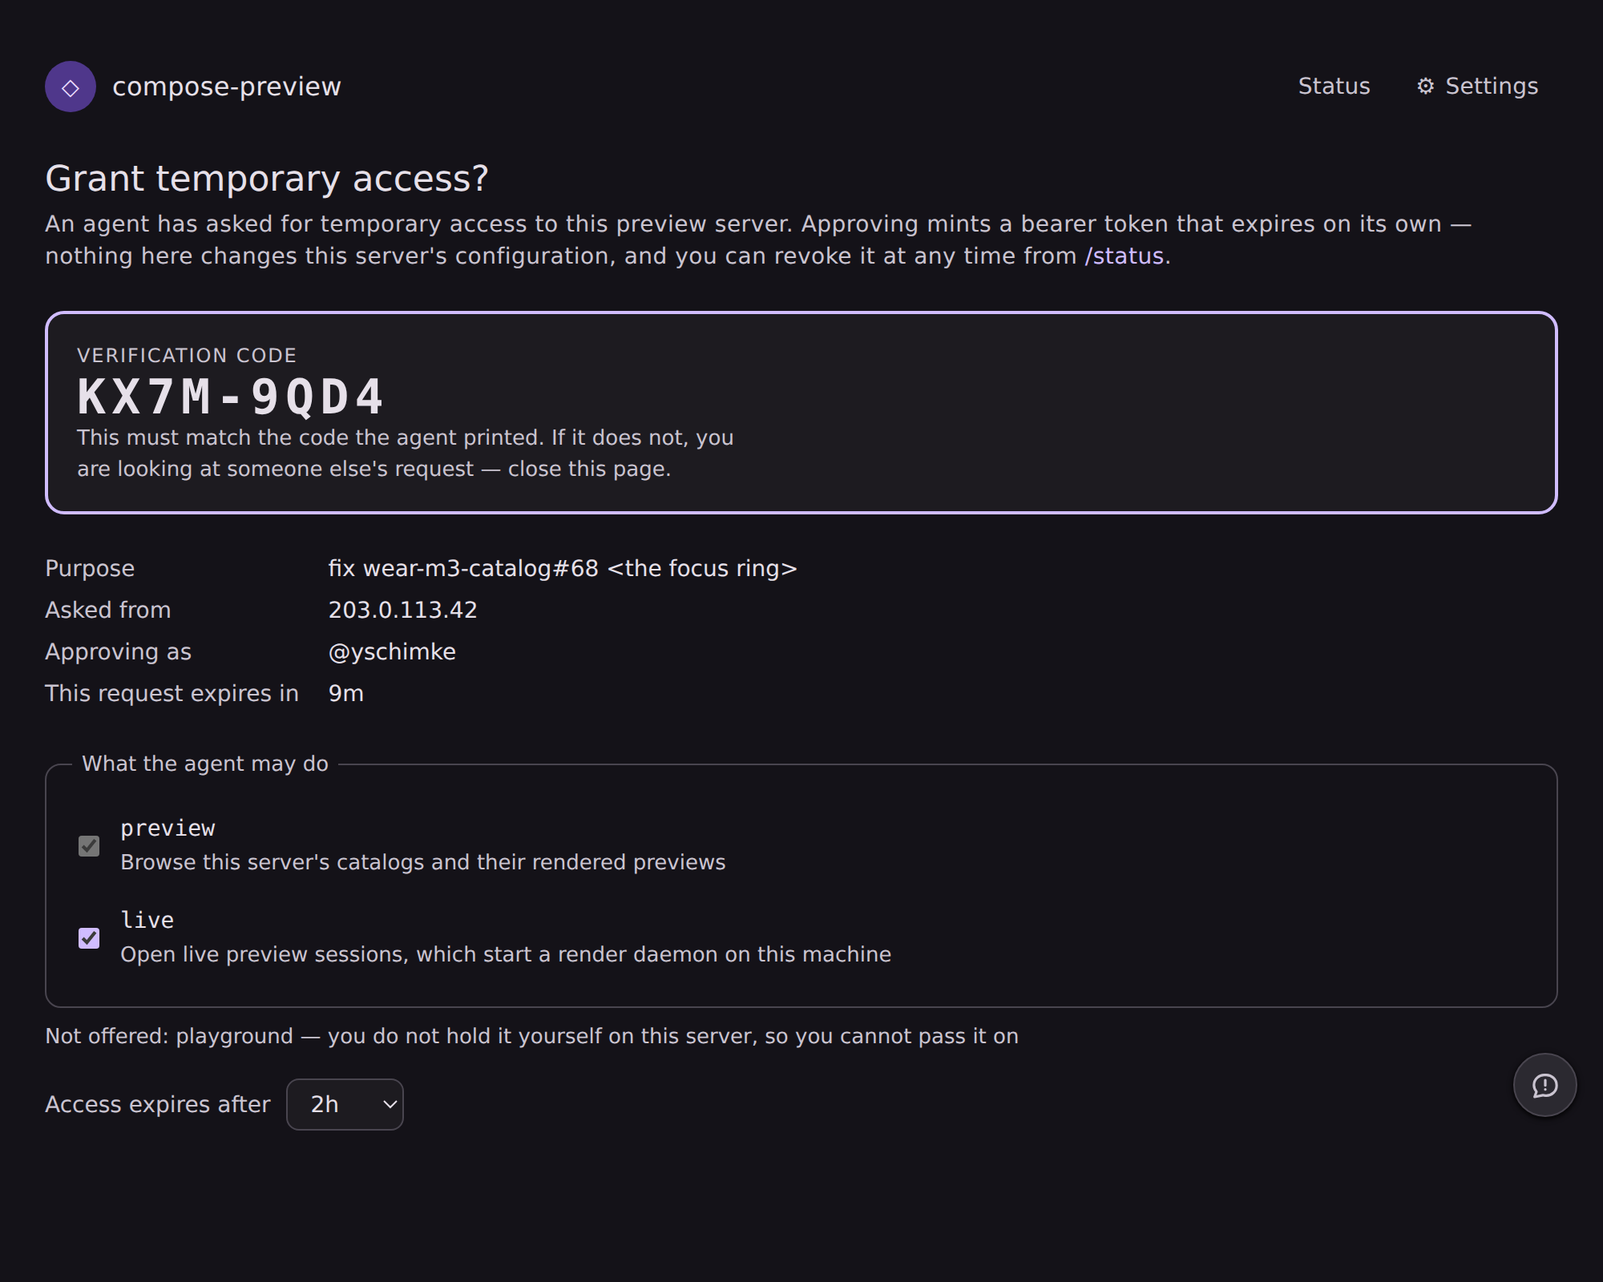
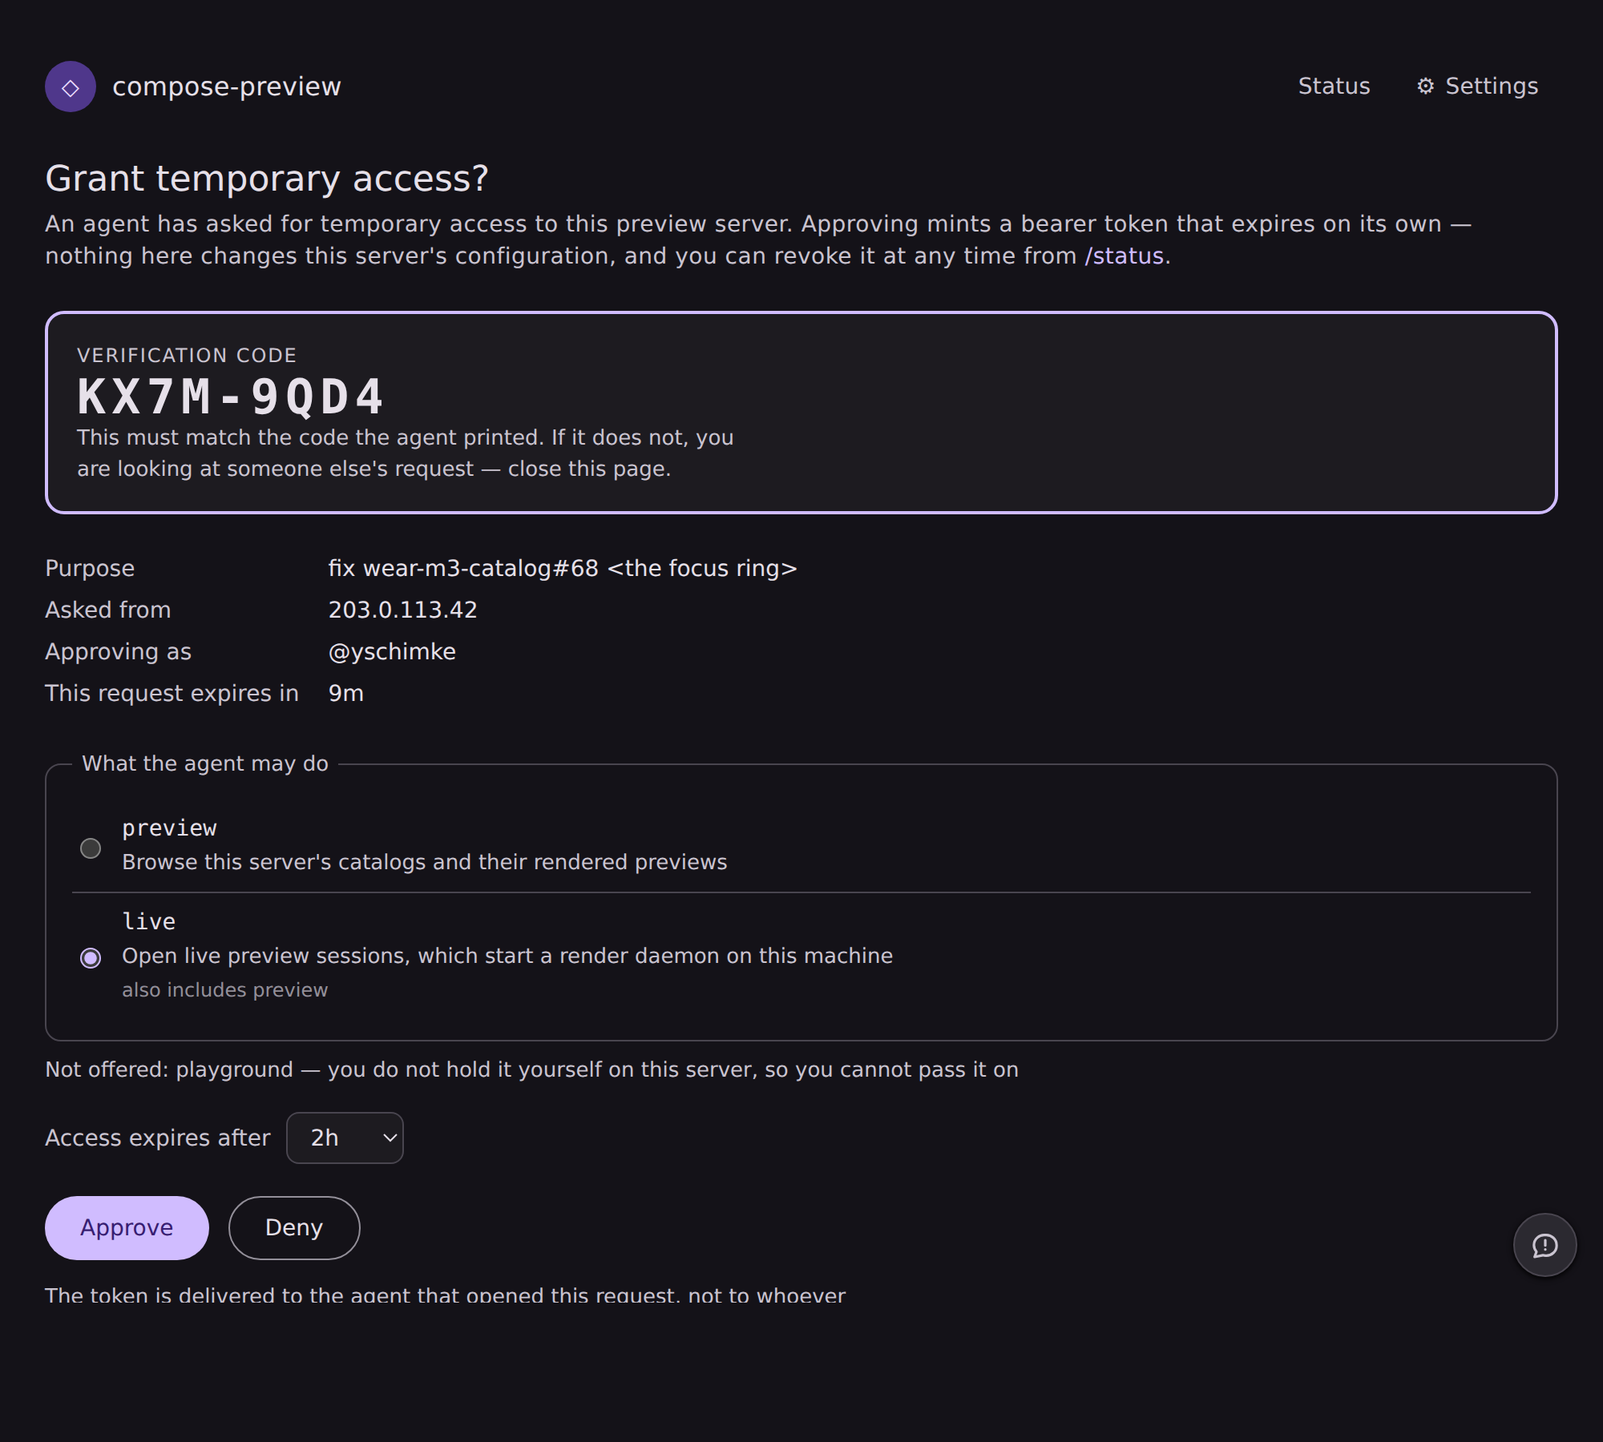
fix(serve): make the consent page's scope control mean what it says
Fourth review round, five findings. The one that matters most is a UI bug on
the page whose entire job is to state accurately what is being agreed to.

**Independent checkboxes lied about cumulative scopes.** With `playground`
offered, an approver could untick `live` and leave `playground` ticked. The page
then showed live access as withheld; the handler takes the highest ticked rung
and `playground` implies `live`, so the grant included exactly the capability
the human had just unticked. Scopes are now radios — one choice, the rung, with
what it carries spelled out beneath it ("also includes preview").

Rendering the page to check that caught a second bug in the same change: the
default was the *requested* scope, which matches no radio when the approver's
own rights capped the request — so the form opened with nothing selected and,
being `required`, could not be submitted at all. The default is the highest
rung this approver may actually give.

**An approval in the last seconds of the window was uncollectable.** The purge
swept requests on `expiresAtMillis` regardless of state, so approving near the
deadline left the agent polling an id that no longer existed while its grant sat
live and unreachable. The request TTL bounds how long a human has to *decide*;
once they have, the record is retained until the token is fetched or the grant
itself expires. A pending request still dies on the dot — nobody may approve a
request whose window has closed.
[…]

diff --git a/cli/src/main/kotlin/ee/schimke/composeai/cli/AuthCommand.kt b/cli/src/main/kotlin/ee/schimke/composeai/cli/AuthCommand.kt
@@ -137,6 +137,21 @@ internal class AuthCommand(
         )
       )
 
+    // Nothing was persisted, so nothing later can redeem an approval — and the human-readable path
+    // never prints the token, by design. Waiting would mean asking a person to approve access that
+    // is guaranteed to be lost. `--json` is exempt: it prints the device secret, so its caller can
+    // poll for itself and needs no store at all.
+    if (!remembered && !json) {
+      fail(
+        "opened the request, but could not save it locally (see the warning above) — so nothing " +
+          "could collect the token once it was approved. Fix the credential file's directory and " +
+          "run this again, or use --json, which prints the device secret for you to poll with. " +
+          "The unsaved request expires on its own in " +
+          ServeAgentGrants.formatDuration(opened.expiresInSeconds) +
+          "; nobody has been asked to approve anything."
+      )
+    }
+
     if (json) {
       // The device secret is deliberately included: `--json` exists for an agent that wants to
       // drive the poll itself, and without it the response is a link it can never redeem. It is
@@ -171,13 +186,11 @@ internal class AuthCommand(
       println()
       if ("--no-wait" in args) {
         println(
-          if (remembered)
-            "Not waiting. Run `compose-preview auth status --server ${client.origin}` after they " +
-              "approve and it will collect the token — or run this without --no-wait to block " +
-              "until they do."
-          else
-            "Not waiting — but the request could NOT be saved locally (see the warning above), so " +
-              "no later command can collect its token. Re-run without --no-wait."
+          // `remembered` is guaranteed true here — an unsaved request aborts above, before anyone
+          // is asked to approve anything.
+          "Not waiting. Run `compose-preview auth status --server ${client.origin}` after they " +
+            "approve and it will collect the token — or run this without --no-wait to block " +
+            "until they do."
         )
         return
       }
@@ -203,7 +216,7 @@ internal class AuthCommand(
           expiresAtMillis = System.currentTimeMillis() + (outcome.expiresInSeconds ?: 0) * 1000,
         )
       )
-    if (saved) store.forgetPending(client.origin)
+    if (saved) store.forgetPendingRequest(opened.requestId)
     if (json) {
       printJson(
         GrantedJson.serializer(),
@@ -421,12 +434,12 @@ internal class AuthCommand(
                   System.currentTimeMillis() + (polled.expiresInSeconds ?: 0) * 1000,
               )
             )
-          if (stored) store.forgetPending(pending.origin)
+          if (stored) store.forgetPendingRequest(pending.requestId)
         }
         // Terminal and not coming back — stop carrying it.
         "denied",
         "expired",
-        "unknown" -> store.forgetPending(pending.origin)
+        "unknown" -> store.forgetPendingRequest(pending.requestId)
         else -> Unit // still pending
       }
     }

diff --git a/cli/src/main/kotlin/ee/schimke/composeai/cli/AgentAccessStore.kt b/cli/src/main/kotlin/ee/schimke/composeai/cli/AgentAccessStore.kt
@@ -96,24 +96,42 @@ internal open class AgentAccessStore(
     return read().pending.filter { it.expiresAtMillis > now }
   }
 
-  /** The un-collected request for [origin], or null. */
+  /** The most recently opened un-collected request for [origin], or null. */
   fun pendingFor(origin: String): Pending? {
     val key = normalizeOrigin(origin) ?: return null
-    return allPending().firstOrNull { it.origin == key }
+    return allPending().lastOrNull { it.origin == key }
   }
 
-  /** Remember an opened request so a later invocation can collect its token. */
+  /**
+   * Remember an opened request so a later invocation can collect its token.
+   *
+   * Requests **accumulate** rather than replacing each other per origin. Replacing looked tidy and
+   * quietly threw away a credential: run `auth request --no-wait` twice against one server and the
+   * first link stays approvable, so a human could approve it and mint a live grant whose device
+   * secret this store had already discarded. [MAX_PENDING] bounds the pile; the oldest goes first,
+   * which is also the one closest to its own deadline.
+   */
   fun savePending(pending: Pending): Boolean {
     val key = normalizeOrigin(pending.origin) ?: return false
     return withLock {
       val now = clock()
+      val current = read()
       val kept =
-        read().let { w -> w.pending.filter { it.origin != key && it.expiresAtMillis > now } }
-      write(read().copy(pending = kept + pending.copy(origin = key)))
+        current.pending
+          .filter { it.expiresAtMillis > now && it.requestId != pending.requestId }
+          .takeLast(MAX_PENDING - 1)
+      write(current.copy(pending = kept + pending.copy(origin = key)))
     }
   }
 
-  /** Drop the remembered request for [origin] — collected, denied, or expired. */
+  /** Drop one remembered request by id — collected, denied, or expired. */
+  fun forgetPendingRequest(requestId: String): Boolean = withLock {
+    val current = read()
+    val kept = current.pending.filter { it.requestId != requestId }
+    if (kept.size == current.pending.size) false else write(current.copy(pending = kept))
+  }
+
+  /** Drop every remembered request for [origin] — used when revoking or forgetting a server. */
   fun forgetPending(origin: String): Boolean {
     val key = normalizeOrigin(origin) ?: return false
     return withLock {
@@ -245,6 +263,13 @@ internal open class AgentAccessStore(
 
   companion object {
     const val SCHEMA_V1 = "compose-preview-agent-access/v1"
+
+    /**
+     * Un-collected requests kept at once. Each is a device secret on disk, so the pile is bounded;
+     * high enough that opening a couple of `--no-wait` asks against different servers never loses
+     * one, low enough that a runaway script cannot fill the file.
+     */
+    const val MAX_PENDING = 8
 
     private val JSON = Json {
       ignoreUnknownKeys = true

diff --git a/cli/src/main/kotlin/ee/schimke/composeai/cli/serve/ServeWeb.kt b/cli/src/main/kotlin/ee/schimke/composeai/cli/serve/ServeWeb.kt
@@ -5171,21 +5171,33 @@ ${captureControlsHtml().prependIndent("          ")}
     withheldReason: String = "",
   ): String {
     val esc = WebEscaping::htmlEscape
+    // **Radios, not checkboxes**, because the scopes are cumulative and independent boxes lie about
+    // that. With `playground` offered, an approver could untick `live` while leaving `playground`
+    // ticked — the page then said live access was withheld, and the grant included it anyway,
+    // because `playground` implies `live` and the handler takes the highest ticked rung. On the one
+    // page in this server whose entire job is to state accurately what is being agreed to, a
+    // control that can misdescribe the outcome is the wrong control. One choice: the highest rung,
+    // with everything it carries spelled out beneath it.
+    // The **highest offered** rung is the default, not the requested one. Those differ exactly when
+    // the approver's own rights capped the request — and there `requestedScope` matches no radio at
+    // all, so the form opened with nothing selected and (being `required`) could not be submitted.
+    // Defaulting to the top of what this approver may actually give is also the right answer on the
+    // merits: it is the agent's ask, clamped to what the person in front of the page can grant.
+    val defaultScope = selectableScopes.lastOrNull()
     val scopeRows =
       selectableScopes.joinToString("\n") { scope ->
-        val checked = if (requestedScope.implies(scope)) " checked" else ""
-        // `preview` is the floor: every grant is at least a read grant, so offering to untick it
-        // would offer a grant that grants nothing. Shown, explained, and fixed.
-        val fixed = scope == ServeAgentGrantScope.PREVIEW
-        val disabled = if (fixed) " disabled" else ""
-        val hidden =
-          if (fixed) "<input type=\"hidden\" name=\"scope\" value=\"${esc(scope.wire)}\">" else ""
+        val checked = if (scope == defaultScope) " checked" else ""
+        val includes =
+          ServeAgentGrantScope.upTo(scope).filter { it != scope }.joinToString(", ") { it.wire }
+        val alsoIncludes =
+          if (includes.isEmpty()) ""
+          else "<span class=\"cp-grant-scope-implies\">also includes ${esc(includes)}</span>"
         """
         <label class="cp-grant-scope">
-          <input type="checkbox" name="scope" value="${esc(scope.wire)}"$checked$disabled>
+          <input type="radio" name="scope" value="${esc(scope.wire)}"$checked required>
           <span class="cp-grant-scope-name">${esc(scope.wire)}</span>
-          <span class="cp-grant-scope-what">${esc(scope.humanDescription)}</span>
-        </label>$hidden
+          <span class="cp-grant-scope-what">${esc(scope.humanDescription)}$alsoIncludes</span>
+        </label>
         """
           .trimIndent()
       }

diff --git a/cli/src/main/kotlin/ee/schimke/composeai/cli/serve/ServeAgentGrantStore.kt b/cli/src/main/kotlin/ee/schimke/composeai/cli/serve/ServeAgentGrantStore.kt
@@ -210,7 +210,13 @@ class ServeAgentGrantStore(
     val key = id?.takeIf { isWellFormedId(it) } ?: return null
     val now = clock()
     purge(now)
-    return requests[key]?.takeIf { it.expiresAtMillis > now }
+    // An approved-but-uncollected request stays reachable past its own deadline so its owner can
+    // still fetch the token; [purge] is what decides when that ends. A *pending* one still dies on
+    // the dot — nobody should be able to approve a request whose window has closed.
+    return requests[key]?.takeIf {
+      it.expiresAtMillis > now ||
+        (it.state == Request.State.APPROVED && !it.collected && !grantIsGone(it, now))
+    }
   }
 
   /**
@@ -363,6 +369,12 @@ class ServeAgentGrantStore(
       .sortedBy { it.expiresAtMillis }
   }
 
+  /** True when the grant a request minted is expired or revoked, so the record owes nobody. */
+  private fun grantIsGone(request: Request, nowMillis: Long): Boolean {
+    val grant = request.grantId?.let { grants[it] } ?: return true
+    return grant.expiresAtMillis <= nowMillis
+  }
+
   /** Drop everything — server shutdown, and the tests' reset. */
   fun clear() {
     requests.clear()
@@ -374,7 +386,14 @@ class ServeAgentGrantStore(
   fun purge(nowMillis: Long = clock()): Int {
     var dropped = 0
     requests.entries.removeIf { (_, r) ->
-      (r.expiresAtMillis <= nowMillis).also { if (it) dropped++ }
+      // An approved request outlives its own deadline until its token has actually been fetched.
+      // The request TTL bounds *how long a human has to decide*; once they have decided, deleting
+      // the record strands the grant it created — which is exactly what happened when someone
+      // approved in the last seconds of the window and the agent's next poll landed after it.
+      // The grant's own expiry is what reclaims these, via [grantIsGone].
+      val keepForCollection =
+        r.state == Request.State.APPROVED && !r.collected && !grantIsGone(r, nowMillis)
+      (!keepForCollection && r.expiresAtMillis <= nowMillis).also { if (it) dropped++ }
     }
     grants.entries.removeIf { (_, g) ->
       (g.expiresAtMillis <= nowMillis).also {

diff --git a/cli/src/test/kotlin/ee/schimke/composeai/cli/serve/ServeAgentGrantStoreTest.kt b/cli/src/test/kotlin/ee/schimke/composeai/cli/serve/ServeAgentGrantStoreTest.kt
@@ -298,6 +298,39 @@ class ServeAgentGrantStoreTest {
   }
 
   @Test
+  fun `an approval near the deadline is still collectable after it`() {
+    // The request TTL bounds how long a human has to DECIDE. Once they have decided, deleting the
+    // record strands the grant it created — which is what happened to anyone approving in the last
+    // seconds of the window, because the agent's next poll landed after it.
+    val store = store()
+    val request = store.ask(ttl = 3600)
+    store.approve(request.id, "@yuri", ServeAgentGrantScope.LIVE, 3600)
+    now += (store.requestTtlSeconds + 5) * 1000
+    val polled = store.poll(request.id, request.deviceSecret)
+    assertTrue(polled is ServeAgentGrantStore.Poll.Approved, "got $polled")
+  }
+
+  @Test
+  fun `a pending request still dies on its own deadline`() {
+    // The other half: nobody may approve a request whose window has closed.
+    val store = store()
+    val request = store.ask()
+    now += (store.requestTtlSeconds + 5) * 1000
+    assertNull(store.request(request.id))
+    assertNull(store.approve(request.id, "@yuri", ServeAgentGrantScope.LIVE, 600))
+  }
+
+  @Test
+  fun `a retained approval is reclaimed once its grant is gone`() {
+    val store = store()
+    val request = store.ask(ttl = 60)
+    store.approve(request.id, "@yuri", ServeAgentGrantScope.LIVE, 60)
+    now += (store.requestTtlSeconds + 5) * 1000
+    // The grant expired too, so the record owes nobody anything and goes.
+    assertNull(store.request(request.id))
+  }
+
+  @Test
   fun `a collected request is shed to make room`() {
     val store = store(maxPendingRequests = 2)
     val collected = store.ask()

diff --git a/cli/src/test/kotlin/ee/schimke/composeai/cli/AgentAccessStoreTest.kt b/cli/src/test/kotlin/ee/schimke/composeai/cli/AgentAccessStoreTest.kt
@@ -193,6 +193,43 @@ class AgentAccessStoreTest {
   }
 
   @Test
+  fun `two requests for one server both survive`() {
+    // Replacing per origin looked tidy and quietly discarded a credential: the first link stays
+    // approvable on the server, so a human could approve it and mint a grant whose device secret
+    // this store had already thrown away.
+    fun pending(id: String) =
+      AgentAccessStore.Pending(
+        origin = "https://preview.coo.ee",
+        requestId = id,
+        deviceSecret = "secret-$id",
+        expiresAtMillis = now + 600_000,
+      )
+    store().savePending(pending("first"))
+    store().savePending(pending("second"))
+    assertEquals(2, store().allPending().size)
+    assertEquals(setOf("first", "second"), store().allPending().map { it.requestId }.toSet())
+    // …and one can be dropped without taking the other with it.
+    assertTrue(store().forgetPendingRequest("first"))
+    assertEquals(listOf("second"), store().allPending().map { it.requestId })
+  }
+
+  @Test
+  fun `the remembered-request pile is bounded`() {
+    for (i in 1..20) {
+      store()
+        .savePending(
+          AgentAccessStore.Pending(
+            origin = "https://h$i.example",
+            requestId = "r$i",
+            deviceSecret = "s$i",
+            expiresAtMillis = now + 600_000,
+          )
+        )
+    }
+    assertTrue(store().allPending().size <= AgentAccessStore.MAX_PENDING)
+  }
+
+  @Test
   fun `a remembered request expires with its own deadline`() {
     store()
       .savePending(

diff --git a/cli/src/main/kotlin/ee/schimke/composeai/cli/ServeCommand.kt b/cli/src/main/kotlin/ee/schimke/composeai/cli/ServeCommand.kt
@@ -713,9 +713,20 @@ class ServeCommand(args: List<String>, private val browseProject: Boolean = fals
    * more, it is a credential nobody remembers issuing.
    */
   private val agentGrantMaxTtlSeconds: Long =
-    (ServeAgentGrants.parseDurationSeconds(args.flagValue("--agent-grant-max-ttl"))
-        ?: ServeAgentGrantStore.DEFAULT_MAX_GRANT_TTL_SECONDS)
-      .coerceIn(60L, ServeAgentGrantStore.HARD_MAX_GRANT_TTL_SECONDS)
+    args
+      .flagValue("--agent-grant-max-ttl")
+      ?.let {
+        // A typo must not silently become the default. `--agent-grant-max-ttl 30m` mistyped is an
+        // operator asking for half an hour and getting eight — sixteen times the ceiling they
+        // meant, on the one setting that bounds how long a minted credential lives. The client's
+        // `--ttl` already fails loudly; so does this.
+        ServeAgentGrants.parseDurationSeconds(it)
+          ?: throw IllegalArgumentException(
+            "--agent-grant-max-ttl '$it' is not a duration — try 90m, 2h, or a number of seconds"
+          )
+      }
+      ?.coerceIn(60L, ServeAgentGrantStore.HARD_MAX_GRANT_TTL_SECONDS)
+      ?: ServeAgentGrantStore.DEFAULT_MAX_GRANT_TTL_SECONDS
 
   /** How many grants may be live at once (`--agent-grant-max-active`). */
   private val agentGrantMaxActive: Int =

diff --git a/vscode-extension/preview-harness/fixtures/pages/serve-agent-access.html b/vscode-extension/preview-harness/fixtures/pages/serve-agent-access.html
@@ -77,14 +77,14 @@
           <fieldset class="cp-grant-fieldset">
             <legend>What the agent may do</legend>
             <label class="cp-grant-scope">
-  <input type="checkbox" name="scope" value="preview" checked disabled>
+  <input type="radio" name="scope" value="preview" required>
   <span class="cp-grant-scope-name">preview</span>
   <span class="cp-grant-scope-what">Browse this server&#39;s catalogs and their rendered previews</span>
-</label><input type="hidden" name="scope" value="preview">
+</label>
 <label class="cp-grant-scope">
-  <input type="checkbox" name="scope" value="live" checked>
+  <input type="radio" name="scope" value="live" checked required>
   <span class="cp-grant-scope-name">live</span>
-  <span class="cp-grant-scope-what">Open live preview sessions, which start a render daemon on this machine</span>
+  <span class="cp-grant-scope-what">Open live preview sessions, which start a render daemon on this machine<span class="cp-grant-scope-implies">also includes preview</span></span>
 </label>
           </fieldset>
           <p class="cp-grant-withheld">Not offered: playground — you do not hold it yourself on this server, so you cannot pass it on</p>

diff --git a/cli/src/main/kotlin/ee/schimke/composeai/cli/serve/ServeHttpServer.kt b/cli/src/main/kotlin/ee/schimke/composeai/cli/serve/ServeHttpServer.kt
@@ -8390,6 +8390,9 @@ class ServeHttpServer(
     // and the store clamps to the request and this box's ceiling regardless, but refusing to *ask*
     // for something outside the approver's own ceiling keeps the audit line honest about what was
     // actually chosen.
+    // The page posts ONE value (a radio — see [ServeWeb.agentGrantApprovalPage] for why it is not a
+    // set of checkboxes), but `maxOrNull` is kept rather than `single()`: the form is client state,
+    // and a caller that posts several is asking for the highest, which the ceilings then clamp.
     val ticked =
       form["scope"].orEmpty().mapNotNull { ServeAgentGrantScope.parse(it) }.maxOrNull()
         ?: ServeAgentGrantScope.PREVIEW

diff --git a/cli/src/main/resources/ee/schimke/composeai/cli/serve/assets/serve.css b/cli/src/main/resources/ee/schimke/composeai/cli/serve/assets/serve.css
@@ -3826,6 +3826,10 @@ cp-page-zoom button:focus-visible {
   font-size: 14px; color: var(--cp-fg); }
 .cp-grant-scope-what { grid-column: 2; color: var(--cp-fg-muted); font-size: 13px;
   line-height: 1.5; }
+/* What the chosen rung carries with it — the cumulative half, said out loud so the single
+   choice is not mistaken for a single capability. */
+.cp-grant-scope-implies { display: block; margin-top: 2px; color: var(--cp-fg-faint);
+  font-size: 12px; }
 .cp-grant-withheld { margin: -8px 0 16px; color: var(--cp-fg-muted); font-size: 13px; }
 
 .cp-grant-ttl { display: flex; gap: 10px; align-items: center; margin-bottom: 20px;
